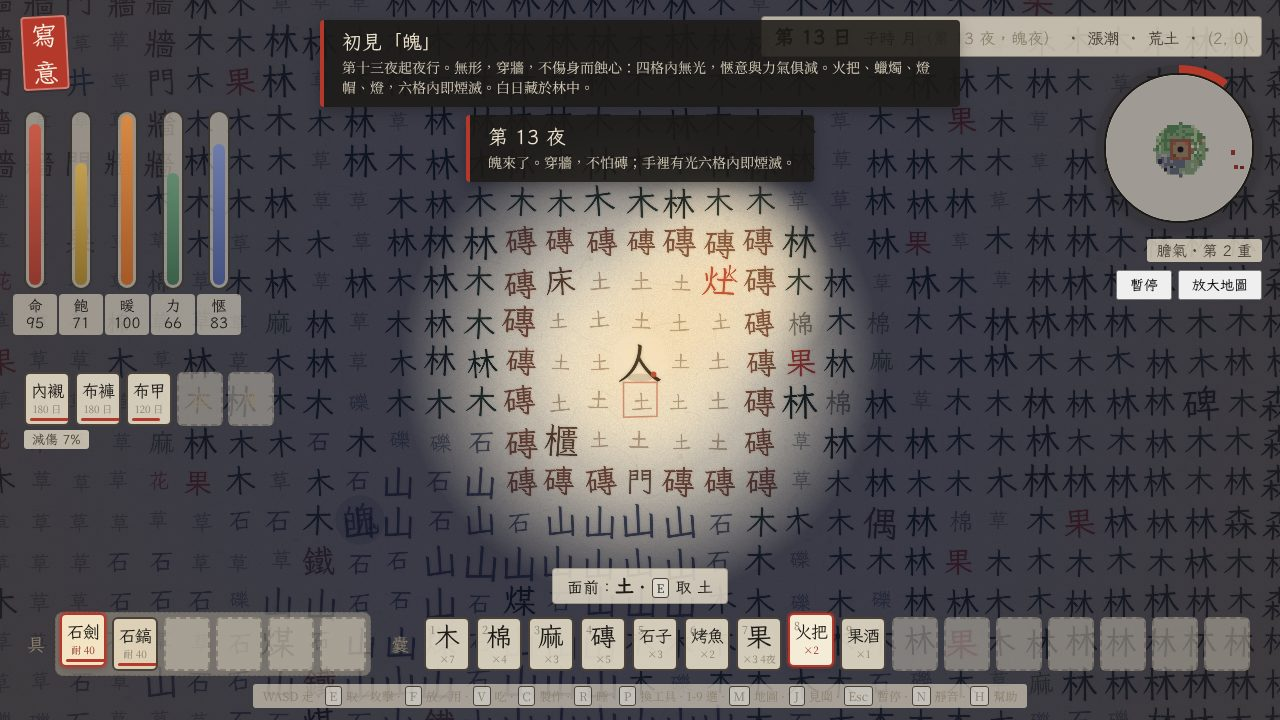
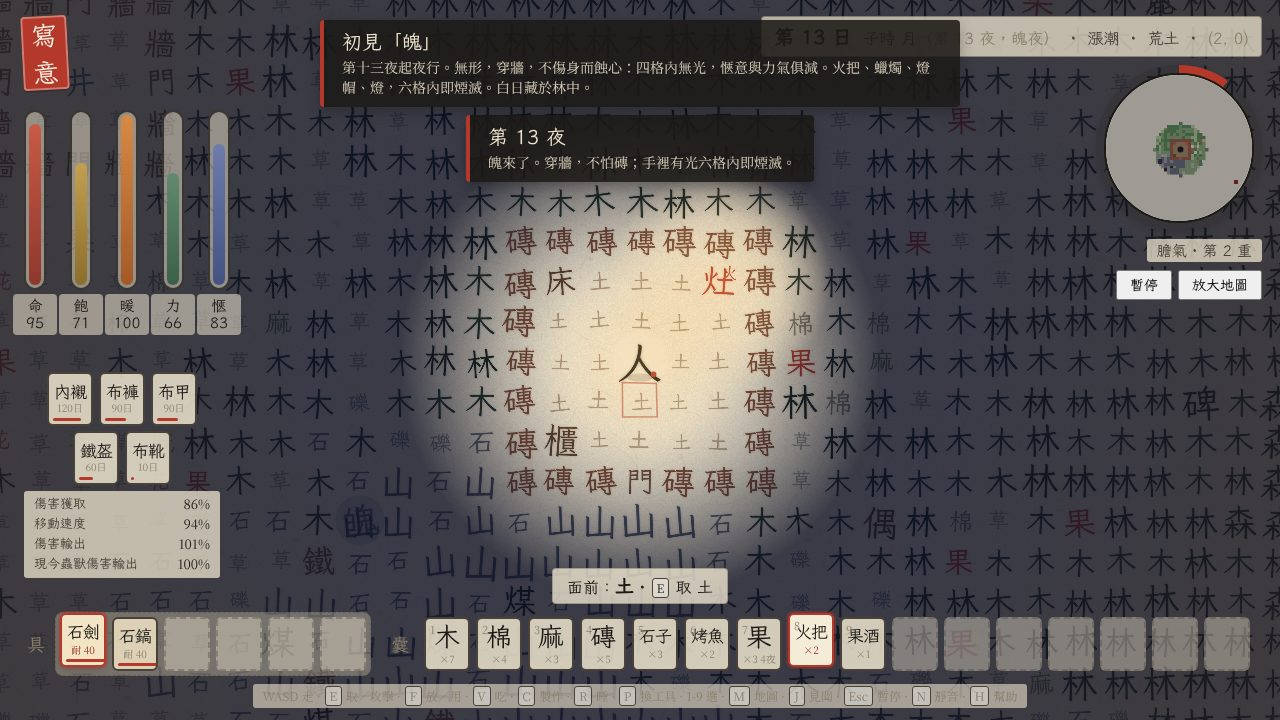
身上衣甲面板照手稿改版：上排襯褲甲、下排盔靴，各標剩餘日數；下方四行現在的數
- 傷害獲取、移動速度、傷害輸出、現今蟲獸傷害輸出，隨衣甲與膽氣即時更新
- 膽氣或衣甲一變（含掉重、死亡）就重畫囊與身上，不再停在舊數

Claude-Session: https://claude.ai/code/session_01PaaqwcxLHDEgiAg17vr9bm

Changed region(s): [[0.0, 0.5194, 0.2188, 0.825]]

diff --git a/src/game.js b/src/game.js
@@ -924,21 +924,30 @@
         el.addEventListener('contextmenu', (ev) => ev.preventDefault());
         tb.appendChild(el);
       }
-      const wn = $('worn'); wn.innerHTML = '';
-      for (const k of SLOT_ORDER) {
-        const s = p.worn[k], el = document.createElement('div');
-        el.className = 'slot bag worn' + (s ? '' : ' empty');
-        if (s) { el.innerHTML = '<span class="ch word">' + s.n + '</span><span class="cost">' + this.durText(s) + '</span><i class="dur" style="width:' + Math.round(100 * s.dur / ARMOR_LIFE) + '%"></i>'; el.title = ITEMS[s.n].flavor + '（點一下脫下）'; }
-        else { el.innerHTML = '<span class="ch">' + k + '</span>'; el.title = '身上：' + k + '。囊裡選中衣甲按 F 穿上。'; }
-        el.addEventListener('mousedown', (ev) => { ev.stopPropagation(); if (s) this.takeOff(k); });
-        wn.appendChild(el);
-      }
-      const red = Math.round(this.armorRed() * 100), wl = $('wornlabel'), on = this.totemOn();
-      wl.textContent = on ? '山海衣 · 減傷 ' + red + '% · 攻 ×' + Math.round(this.dmgMult() * 100) / 100 : this.wornList().length ? '減傷 ' + red + '%' + (this.ironCount() ? ' · 鐵 ' + this.ironCount() + '/4' : '') : '身無衣甲';
-      wl.classList.toggle('totem', on);
+      // 身上：上排襯褲甲，下排盔靴；下面四行是現在的數
+      [['襯', '褲', '甲'], ['盔', '靴']].forEach((keys, ri) => {
+        const row = $('worn' + (ri + 1)); row.innerHTML = '';
+        for (const k of keys) {
+          const s = p.worn[k], el = document.createElement('div');
+          el.className = 'slot bag worn' + (s ? '' : ' empty');
+          if (s) { el.innerHTML = '<span class="ch word">' + s.n + '</span><span class="cost">' + Math.max(1, Math.ceil(s.dur / DAY)) + '日</span><i class="dur" style="width:' + Math.round(100 * s.dur / ARMOR_LIFE) + '%"></i>'; el.title = ITEMS[s.n].flavor + '（點一下脫下）'; }
+          else { el.innerHTML = '<span class="ch">' + k + '</span>'; el.title = '身上：' + k + '。囊裡選中衣甲按 F 穿上。'; }
+          el.addEventListener('mousedown', (ev) => { ev.stopPropagation(); if (s) this.takeOff(k); });
+          row.appendChild(el);
+        }
+      });
+      const on = this.totemOn();
+      $('wornstats').innerHTML = (on ? '<div class="totem">山海衣 · 獸紋已顯</div>' : '')
+        + '<div><span>傷害獲取</span><b>' + Math.round(this.takenMult() * 100) + '%</b></div>'
+        + '<div><span>移動速度</span><b>' + Math.round(this.ironSpeed() * 100) + '%</b></div>'
+        + '<div><span>傷害輸出</span><b>' + Math.round(this.dmgMult() * 100) + '%</b></div>'
+        + '<div><span>現今蟲獸傷害輸出</span><b>' + (on ? 167 : 100) + '%</b></div>';
     }
     updateHUD() {
       const p = this.player, w = this.world, t = this.facing();
+      // 身上的四個數會隨膽氣、衣甲變，變了就重畫囊與身上
+      const ws = (this.totemOn() ? 1 : 0) + '|' + Math.round(this.takenMult() * 1000) + '|' + Math.round(this.dmgMult() * 1000) + '|' + Math.round(this.ironSpeed() * 1000);
+      if (ws !== this.wornSig) { this.wornSig = ws; this.barSig = ''; }
       if (this.barSig === '') this.buildBag();
       const sig = [Math.round(p.hp), Math.round(p.food), Math.round(p.warm), Math.round(p.sta), p.staMax, Math.round(p.san), this.shichen(), p.x, p.y, w.get(p.x, p.y), this.daylight() > 0.5, this.day(), w.tideName(), p.sailing].join('|');
       if (sig !== this.hudSig) {

diff --git a/style.css b/style.css
@@ -42,14 +42,17 @@ kbd { display: inline-block; min-width: 1.3em; padding: 0 .3em; border: 1px soli
 #minimap { display: block; width: 150px; height: 150px; border-radius: 50%; border: 2px solid var(--ink); background: var(--paper); image-rendering: pixelated; }
 #courlabel { font: 15px var(--font); color: var(--ink-2); background: rgba(239,229,207,.75); padding: 2px 10px; border-radius: 3px; }
 #wornwrap { position: absolute; left: calc(24px + env(safe-area-inset-left, 0px)); top: calc(372px + env(safe-area-inset-top, 0px)); display: flex; flex-direction: column; gap: 4px; align-items: flex-start; }
-#worn { display: flex; gap: 5px; }
-.slot.worn { width: 40px; height: 46px; overflow: hidden; cursor: pointer; }
-.slot.worn .ch { font-size: 15px; letter-spacing: -1px; }
-.slot.worn .ch.word { font-size: 15px; }
-.slot.worn .cost { font-size: 9px; }
+#wornwrap { align-items: center; width: 196px; gap: 6px; }
+#worn { display: flex; flex-direction: column; gap: 5px; align-items: center; }
+.wornrow { display: flex; gap: 6px; justify-content: center; }
+.slot.worn { width: 58px; height: 48px; overflow: hidden; cursor: pointer; }
+.slot.worn .ch.word { font-size: 17px; letter-spacing: -1px; }
+.slot.worn .cost { font-size: 11px; margin-top: 0; }
 .slot.worn.empty .ch { color: var(--dim); font-size: 18px; }
-#wornlabel { font: 13px var(--font); color: var(--ink-2); background: rgba(239,229,207,.75); padding: 1px 8px; border-radius: 3px; }
-#wornlabel.totem { color: var(--red-2); font-weight: bold; }
+#wornstats { width: 100%; box-sizing: border-box; font: 13px/1.55 var(--font); color: var(--ink-2); background: rgba(239,229,207,.75); padding: 3px 10px; border-radius: 3px; }
+#wornstats div { display: flex; justify-content: space-between; gap: 10px; }
+#wornstats b { color: var(--ink); font-weight: normal; font-family: var(--ui); }
+#wornstats .totem { color: var(--red-2); justify-content: center; }
 #courdecay { font: 13px var(--font); color: var(--red-2); background: rgba(239,229,207,.75); padding: 1px 8px; border-radius: 3px; }
 #courdecay.hidden { display: none; }
 .hudbtns { display: flex; gap: 6px; }

diff --git a/index.html b/index.html
@@ -22,7 +22,10 @@
     <div class="bar sta"><div id="stafill"></div><span id="stalabel">力</span></div>
     <div class="bar san"><div id="sanfill"></div><span id="sanlabel">愜</span></div>
   </div>
-  <div id="wornwrap"><div id="worn"></div><div id="wornlabel">身無衣甲</div></div>
+  <div id="wornwrap">
+    <div id="worn"><div class="wornrow" id="worn1"></div><div class="wornrow" id="worn2"></div></div>
+    <div id="wornstats"></div>
+  </div>
   <div id="topright">
     <div id="status"></div>
     <div id="mapwrap" title="膽氣：採集、製作、擊敗野獸都會長；滿一圈升一重，回復更快"><canvas id="minimap" width="150" height="150"></canvas></div>
